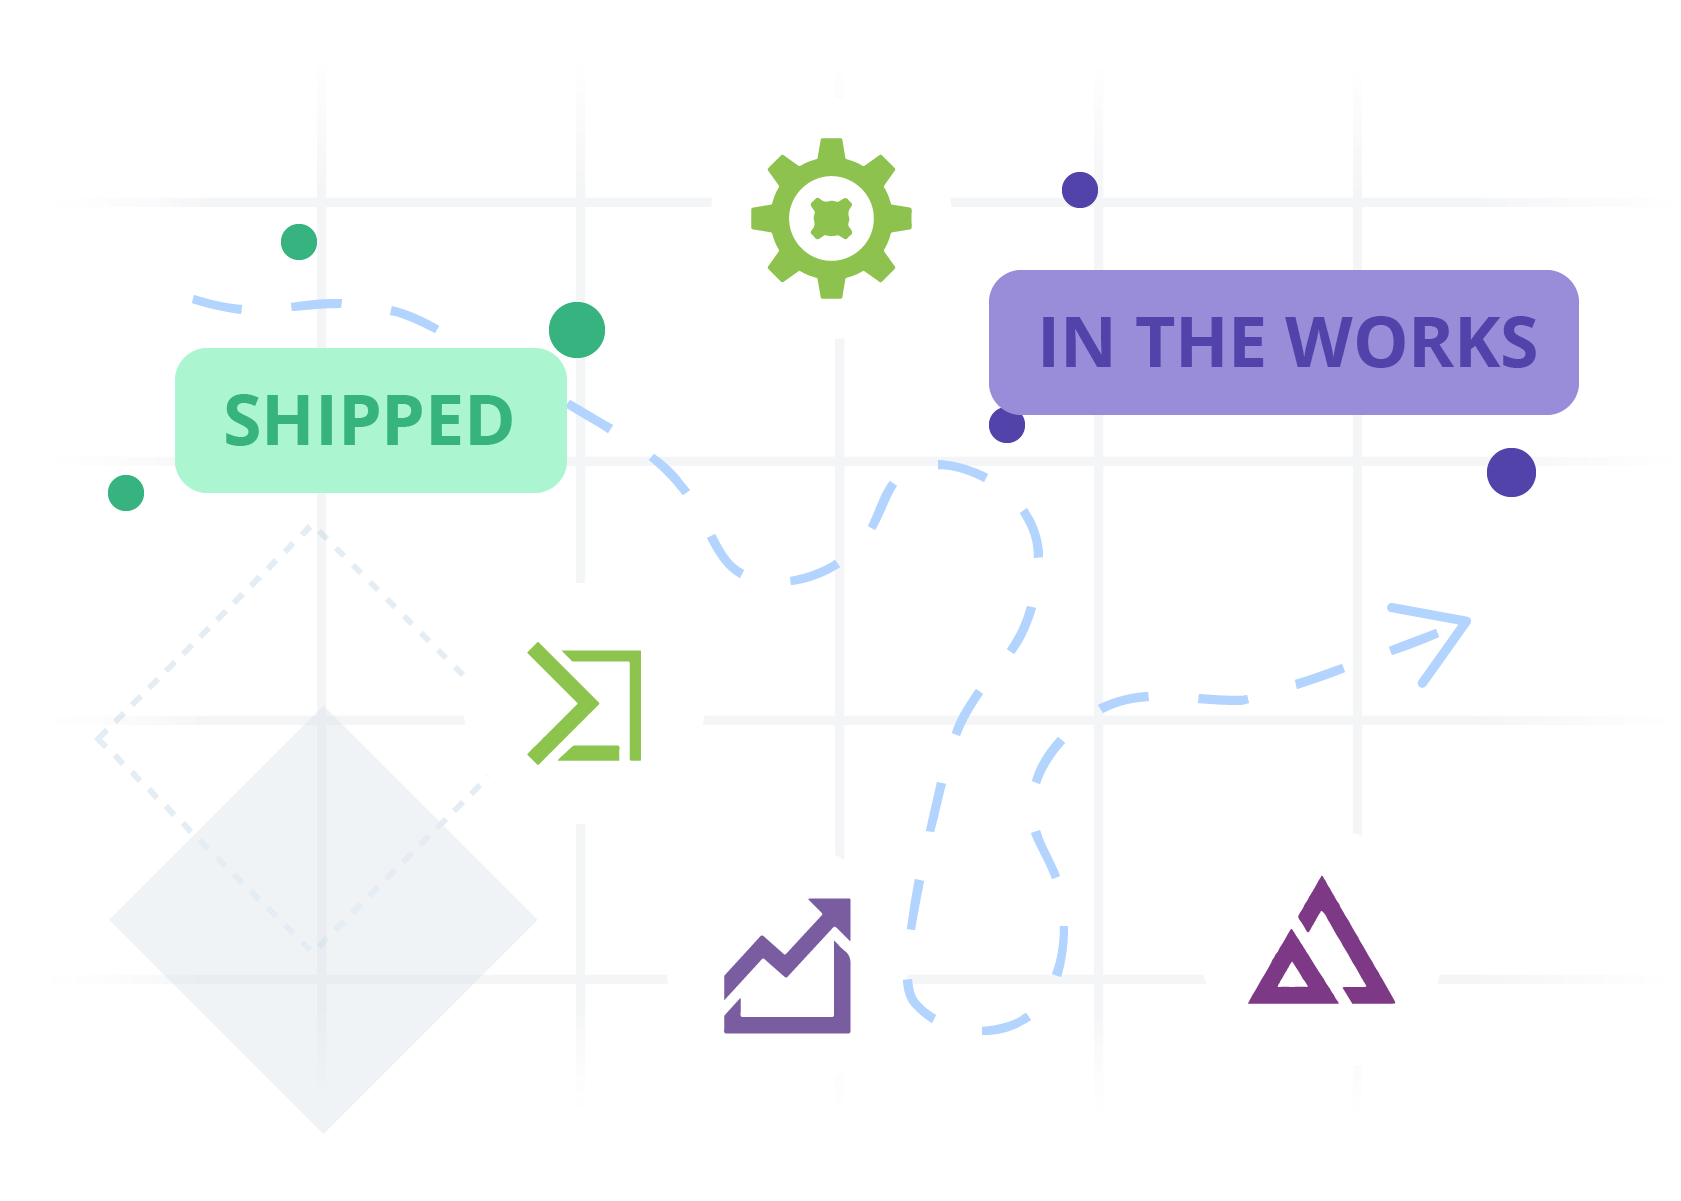
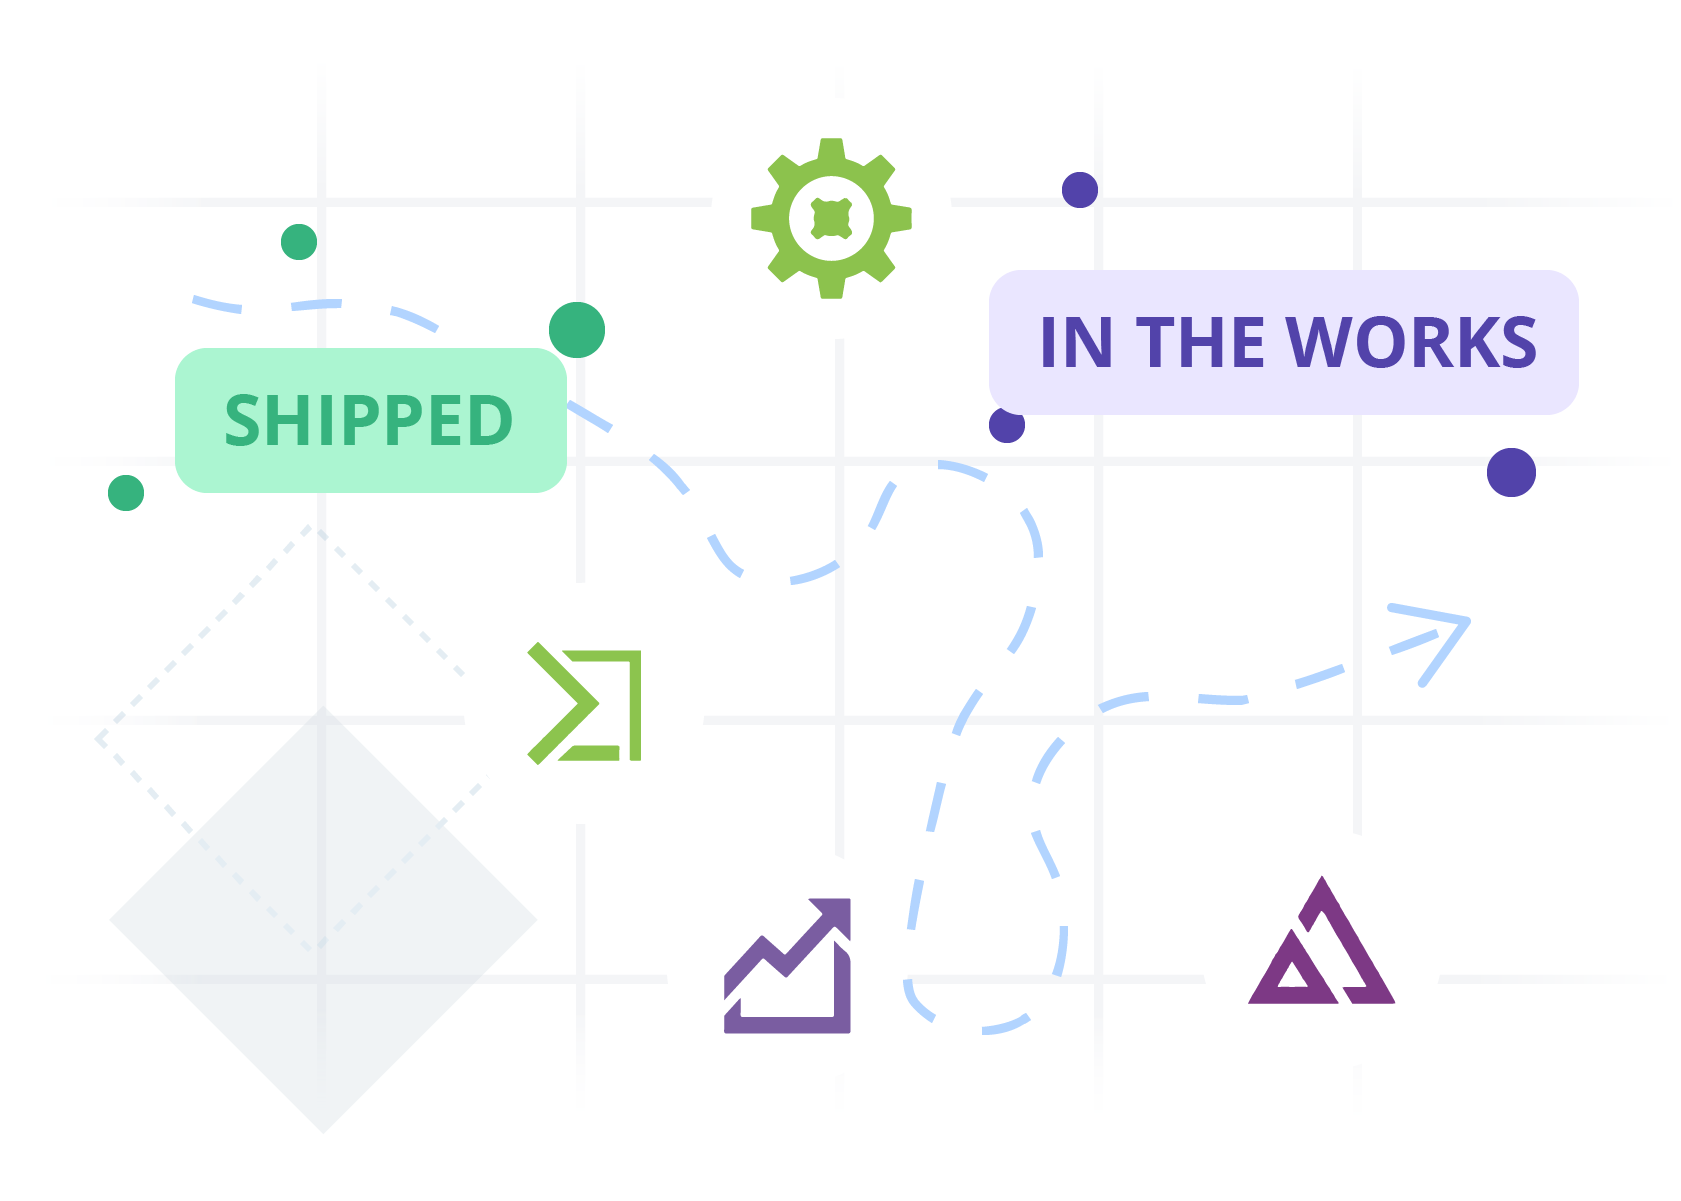
Added 21-Q4 to INTHEWORKS. Updated the left png.

Changed region(s): [[0.5877, 0.2157, 0.959, 0.3697]]

diff --git a/excel-to-roadmap/src/App.js b/excel-to-roadmap/src/App.js
@@ -6,8 +6,8 @@ import { data } from './data';
 const STATUS_MAP = {
   shipped: '21-Q1',
   comingSoon: '21-Q2',
-  inTheWorks: '21-Q3',
-  future: '21-Q4'
+  inTheWorks: '21-Q3|21-Q4',
+  future: '22-Q1'
 };
 
 const CATAGORY_MAP = {
@@ -86,7 +86,7 @@ class App extends Component {
       return 'Shipped';
     else if (str === STATUS_MAP.comingSoon)
       return 'ComingSoon';
-    else if (str === STATUS_MAP.inTheWorks)
+    else if (STATUS_MAP.inTheWorks.indexOf(str) != -1)
       return 'InTheWorks';
     else if (str === STATUS_MAP.future)
       return 'Future';
@@ -149,7 +149,7 @@ class App extends Component {
                         <h2>{catagory}</h2>
                         {this.state.rows
                           .filter((item) => { return this.state.catagoryFilter ? item[0] === this.state.catagoryFilter : item[0] === catagory })
-                          .filter((item) => { return this.state.statusFilter ? item[2] === this.state.statusFilter : true })
+                          .filter((item) => { return this.state.statusFilter ? this.state.statusFilter.indexOf(item[2]) != -1 : true })
                           .map((it) => {
                             return <div kep={it.toString()} className='item'>
                               <span className={'is' + this.statusTagPicker(it[2])}>{it[2]}</span>
